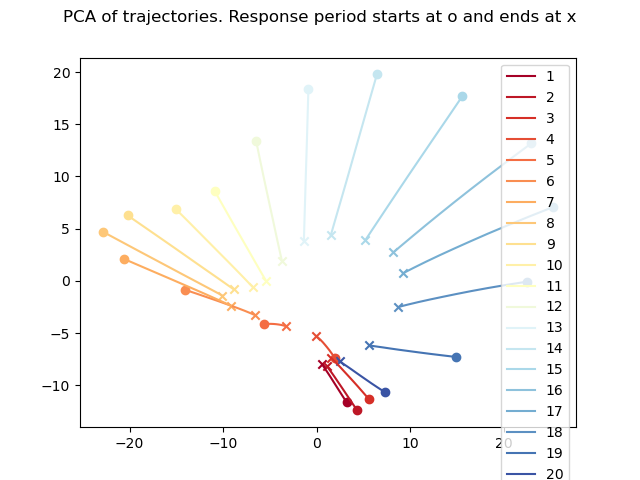
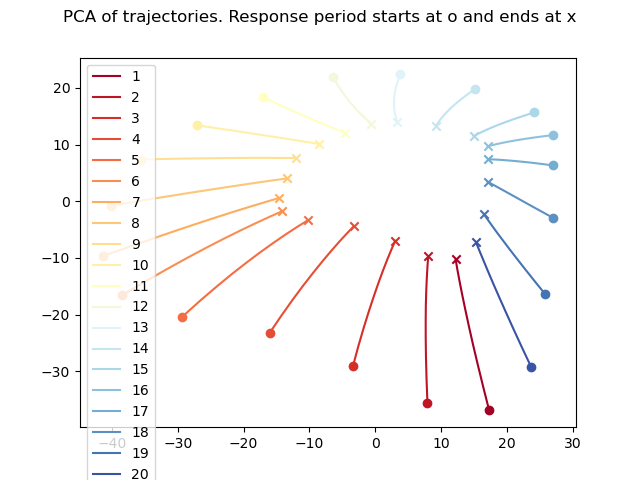
first try at a 2d spatial grid input

diff --git a/section_chris/main_grid.py b/section_chris/main_grid.py
@@ -1,0 +1,158 @@
+from section_6.rate_rnn_with_io import ReluRateRNNWithIO
+from section_6.utils import generate_blank_sensory_input
+from section_chris.utils_chris import generate_batch_of_2d_wm_targets, generate_2d_sensory_input, loss_function_grid_2, errors_grid
+from tqdm import tqdm
+import matplotlib.pyplot as plt
+
+import torch
+from torch.optim import Adam
+from torch import randn
+
+from sklearn.decomposition import PCA
+
+
+## Define our task
+n_a = 5    # size of sides of square
+
+
+## Define our system
+dt = 0.01
+tau = 0.1
+N = 30
+batch_size = 32
+rnn = ReluRateRNNWithIO(dt, N, n_a**2 + 1, 2, tau)    # Refer to notes to understand why the i/o are these sizes!
+
+
+## Define training machinery
+lr = 1e-3
+opt = Adam(rnn.parameters(), lr)
+num_batches = 4000
+losses = [] # Store for loss curve plotting
+x_errs = [] # Store for accuracies curve plotting
+y_errs = []
+
+## Define simulation parameters
+T_prestim = 0.2     # in seconds
+T_stim = 0.5
+T_delay = 0
+T_resp = 0.1
+
+prestim_timesteps = int(T_prestim / dt)
+stim_timesteps = int(T_stim / dt)
+delay_timesteps = int(T_delay / dt)
+resp_timesteps = int(T_resp / dt)
+
+eps1 = 0.9
+eps2 = (1 - eps1**2) ** 0.5
+C = 0.1
+
+
+## Initialise simulation, including the first noise term
+eta_tilde = randn(batch_size, N)
+
+
+### Begin training
+for b in tqdm(range(num_batches)):
+
+    opt.zero_grad()
+
+    target_indices = generate_batch_of_2d_wm_targets(n_a, batch_size)
+    rnn.initialise_u(batch_size)
+
+    prestim_sensory_input = generate_blank_sensory_input(n_a**2, True, batch_size)
+    for ts in range(prestim_timesteps):
+        eta_tilde = (eps1 * eta_tilde) + (eps2 * randn(batch_size, N))
+        eta = eta_tilde * C
+        rnn.step_dynamics(prestim_sensory_input, eta, False)
+
+    stim_sensory_input = generate_2d_sensory_input(target_indices, True, n_a)
+    for ts in range(stim_timesteps):
+        eta_tilde = (eps1 * eta_tilde) + (eps2 * randn(batch_size, N))
+        eta = eta_tilde * C
+        rnn.step_dynamics(stim_sensory_input, eta, False)
+
+    delay_sensory_input = generate_blank_sensory_input(n_a**2, True, batch_size)
+    for ts in range(delay_timesteps):
+        eta_tilde = (eps1 * eta_tilde) + (eps2 * randn(batch_size, N))
+        eta = eta_tilde * C
+        rnn.step_dynamics(delay_sensory_input, eta, False)
+
+    batch_network_outputs = []
+
+    resp_sensory_input = generate_blank_sensory_input(n_a**2, False, batch_size)
+    for ts in range(resp_timesteps):
+        eta_tilde = (eps1 * eta_tilde) + (eps2 * randn(batch_size, N))
+        eta = eta_tilde * C
+        voltage, network_output = rnn.step_dynamics(resp_sensory_input, eta, return_output=True)
+        batch_network_outputs.append(network_output)
+
+    all_network_outputs = torch.stack(batch_network_outputs, 1)
+    loss = loss_function_grid_2(target_indices, all_network_outputs, n_a)
+    x_err, y_err = errors_grid(target_indices, all_network_outputs.detach(), n_a)
+    loss.backward()
+    opt.step()
+
+    losses.append(loss.item())
+    x_errs.append(x_err.item())
+    y_errs.append(y_err.item())
+
+    if b % 200 == 0:
+        plt.close('all')
+        fig, axes = plt.subplots(3)
+        
+        axes[0].plot(losses)
+        axes[1].plot(x_errs)
+        axes[2].plot(y_errs)
+
+        print(losses[-10:])
+        print(x_errs[-10:])
+        print(y_errs[-10:])
+        fig.savefig('section_chris/grid_losses.png')
+
+
+### RUN TEST TRIAL FOR ACTIVITY
+target_indices =  torch.tensor([[i,j] for i in range(1,n_a+1) for j in range(1,n_a+1)])
+test_batch_size = target_indices.shape[0]
+rnn.initialise_u(test_batch_size)
+eta_tilde = randn(test_batch_size, N)
+
+prestim_sensory_input = generate_blank_sensory_input(n_a**2, True, test_batch_size)
+for ts in range(prestim_timesteps):
+    eta_tilde = (eps1 * eta_tilde) + (eps2 * randn(test_batch_size, N))
+    eta = eta_tilde * C
+    rnn.step_dynamics(prestim_sensory_input, eta, False)
+
+stim_sensory_input = generate_2d_sensory_input(target_indices, True, n_a)
+for ts in range(stim_timesteps):
+    eta_tilde = (eps1 * eta_tilde) + (eps2 * randn(test_batch_size, N))
+    eta = eta_tilde * C
+    rnn.step_dynamics(stim_sensory_input, eta, False)
+
+delay_sensory_input = generate_blank_sensory_input(n_a**2, True, test_batch_size)
+for ts in range(delay_timesteps):
+    eta_tilde = (eps1 * eta_tilde) + (eps2 * randn(test_batch_size, N))
+    eta = eta_tilde * C
+    rnn.step_dynamics(delay_sensory_input, eta, False)
+
+test_trial_voltages = []
+
+resp_sensory_input = generate_blank_sensory_input(n_a**2, False, test_batch_size)
+for ts in range(resp_timesteps):
+    eta_tilde = (eps1 * eta_tilde) + (eps2 * randn(test_batch_size, N))
+    eta = eta_tilde * C
+    voltage, network_output = rnn.step_dynamics(resp_sensory_input, eta, return_output=True)
+    test_trial_voltages.append(voltage)
+
+all_test_trial_voltages = torch.stack(test_trial_voltages, 1).detach().numpy()
+print(all_test_trial_voltages)
+dim_reduced_voltages_flat = PCA(n_components=2).fit_transform(all_test_trial_voltages.reshape(test_batch_size * resp_timesteps, -1))
+dim_reduced_voltages = dim_reduced_voltages_flat.reshape(test_batch_size, resp_timesteps, -1)
+
+fig, axes = plt.subplots(1)
+for i, drv in enumerate(dim_reduced_voltages):
+    axes.plot(*drv.T, label = target_indices[i], color=plt.cm.RdYlBu(i/(n_a**2)))
+    axes.scatter(*drv[0,:,None], marker='o', color=plt.cm.RdYlBu(i/(n_a**2)))
+    axes.scatter(*drv[-1,:,None], marker='x', color=plt.cm.RdYlBu(i/(n_a**2)))
+axes.legend()
+fig.suptitle('PCA of trajectories. Response period starts at o and ends at x')
+fig.savefig('section_chris/grid_pca_reprs.png')

diff --git a/section_chris/utils_chris.py b/section_chris/utils_chris.py
@@ -5,8 +5,24 @@ import torch.nn.functional as F
 import numpy as np
 from section_6.utils import generate_sensory_input_spatial
 
-def generate_same_different(batch_size: int):
+def generate_batch_of_2d_wm_targets(n_a: int, batch_size: int):
+    return torch.randint(1, n_a+1, (batch_size,2))
 
+def generate_2d_sensory_input(rs: T, fixation: bool, n_a: int):
+    batch_size = rs.shape[0]
+    batch = torch.zeros(batch_size, n_a, n_a)
+    for i in range(batch.size(0)):
+        x, y = rs[i,:]
+        for j in range(batch.size(1)):
+            x_dist = j-x+1
+            for k in range(batch.size(2)):
+                y_dist = k-y+1
+                batch[i,j,k] = torch.exp((x_dist**2 + y_dist**2)/-2)
+    batch = batch.view(batch_size, n_a**2)
+    fixation_vector = torch.ones(batch_size) if fixation else torch.zeros(batch_size)
+    return torch.concat([batch, fixation_vector.unsqueeze(1)], 1)
+
+def generate_same_different(batch_size: int):
     return torch.randint(1,3,(batch_size,))
 
 def generate_second_sensory_input(rs: T, where_diff: T, fixation: bool, n_a: int):
@@ -31,11 +47,44 @@ def generate_second_sensory_input_spatial(rs: T, where_diff: T, fixation: bool, 
     rs = ((rs - 1) % n_a) + 1
     return generate_sensory_input_spatial(rs, fixation, n_a, A, kappa)
 
-def generate_grid_sensory_input(rs: T, fixation: bool, n_a: int, sd: float):
-    side = (n_a**.5)
-    if not side.is_integer():
-        raise Exception("chosen value for n_a doesn't allow for a square view!")
-    
-    inputs = torch.ones((rs.size(0), n_a))
+def loss_function_grid(rs: T, network_outputs: T, n_a: int):
+    xs = (rs[:,0] / n_a) - (n_a / 2)
+    ys = (rs[:,1] / n_a) - (n_a / 2)
 
-    
+
+    x_errors = (network_outputs[:,:,0].unsqueeze(-1) - xs)**2
+    y_errors = (network_outputs[:,:,1].unsqueeze(-1) - ys)**2
+    return (x_errors + y_errors).mean()
+
+
+def errors_grid(rs: T, network_outputs: T, n_a: int):
+    xs = (rs[:,0] / n_a) - (n_a / 2)
+    ys = (rs[:,1] / n_a) - (n_a / 2)
+    x_errors = ((network_outputs[:,:,0].unsqueeze(-1) - xs)**2).mean()
+    y_errors = ((network_outputs[:,:,1].unsqueeze(-1) - ys)**2).mean()
+
+    return x_errors, y_errors
+
+def loss_function_grid_2(rs: T, network_outputs: T, n_a: int):
+
+    centre = torch.median(torch.arange(1,n_a+1))
+
+    xs = (rs[:,0] - centre)/n_a
+    ys = (rs[:,1] - centre)/n_a
+
+    target_angles = torch.arctan2(xs,ys)
+    target_magnitudes = (xs**2 + ys**2)**0.5
+
+    output_angles = torch.arctan2(network_outputs[:,:,0], network_outputs[:,:,1])
+    output_magnitudes = (network_outputs[:,:,0]**2 + network_outputs[:,:,1]**2)**0.5
+
+    angle_errors = target_angles - output_angles.unsqueeze(-1)
+
+    # Small thing to normalise angle errors to [-\pi, \pi]
+    k = torch.floor((pi - angle_errors)/(2 * pi))
+    angle_errors = angle_errors + (k * 2 * pi)
+    angle_errors = angle_errors.abs().mean()   # abs then mean to account for symmetry
+
+    magnitude_errors = (target_magnitudes - output_magnitudes.unsqueeze(-1)).abs().mean()
+
+    return (angle_errors + magnitude_errors).mean()
